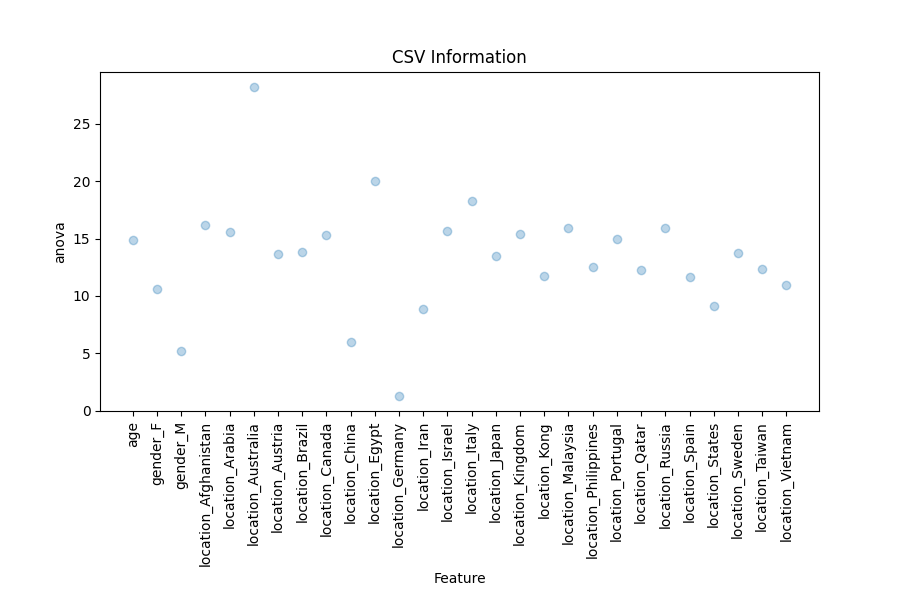
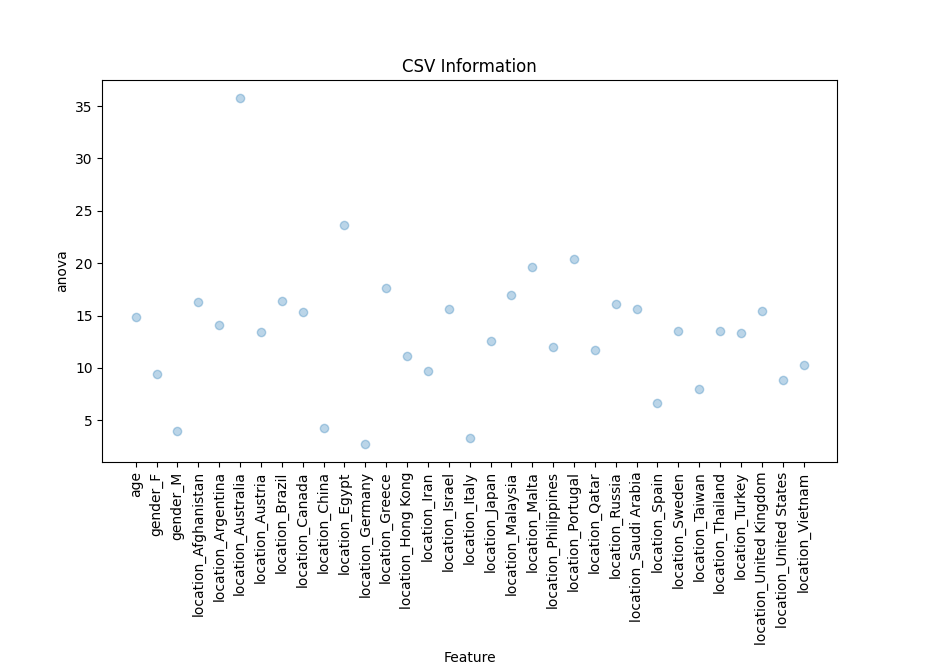
Fixed country grouping, updated graphs

diff --git a/source/b_ii_feature_exploration.py b/source/b_ii_feature_exploration.py
@@ -135,7 +135,7 @@ def mutual_info_metric(df_classified, title, to_drop=[0, 'filename', 'covid(labe
     df_mutual_info = calc_mutual_info.fit(feature_data, label)
 #     df_mutual_info = calc_mutual_info.fit(df_classified.drop(
 #         to_drop, axis=1), df_classified[['covid(label)']].values.ravel())
-    print(df_mutual_info.scores_)
+    # print(df_mutual_info.scores_)
     plt.figure()
     plt.scatter(df_classified.drop(
         to_drop, axis=1).columns, df_mutual_info.scores_, alpha=0.3)
@@ -171,7 +171,7 @@ def anova_metric(df_classified, title, to_drop=[0, 'filename', 'covid(label)'], 
     df_anova = calc_anova.fit(feature_data, label)
 #     df_anova = calc_anova.fit(df_classified.drop(
 #         to_drop, axis=1), df_classified[['covid(label)']].values.ravel())
-    print(df_anova.scores_)
+    # print(df_anova.scores_)
     plt.figure()
     plt.scatter(df_classified.drop(
         to_drop, axis=1).columns, df_anova.scores_, alpha=0.3)
@@ -226,8 +226,8 @@ def interpolateData(df):
 
 def getCountries(df):
     # take the last word from the location values, to get the countries
-    df['location']=df['location'].str.partition()[2].str.split().str[-1]
     df = df.interpolate().apply(interpolateCategories)
+    df['location']=df['location'].str.split(",").str[-1].str.strip()
     return df
 
 
